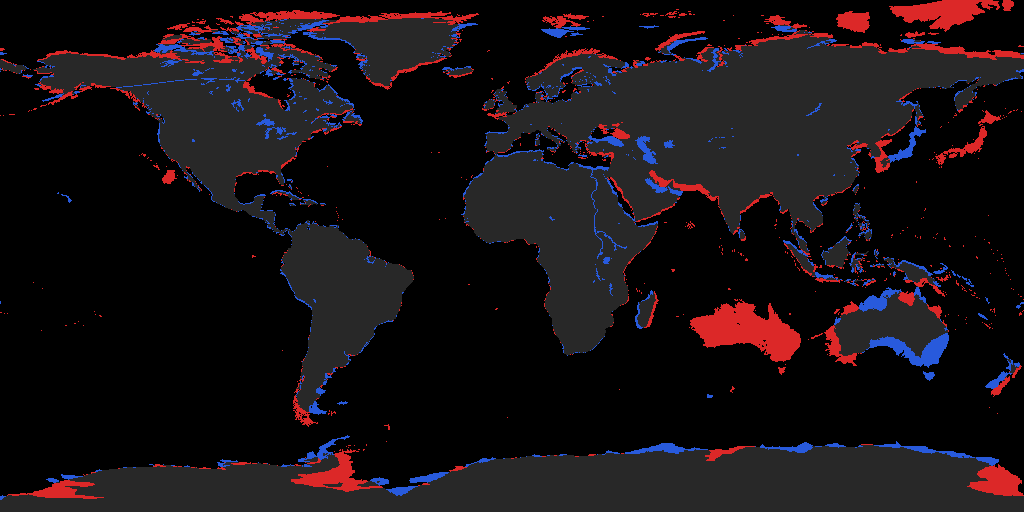
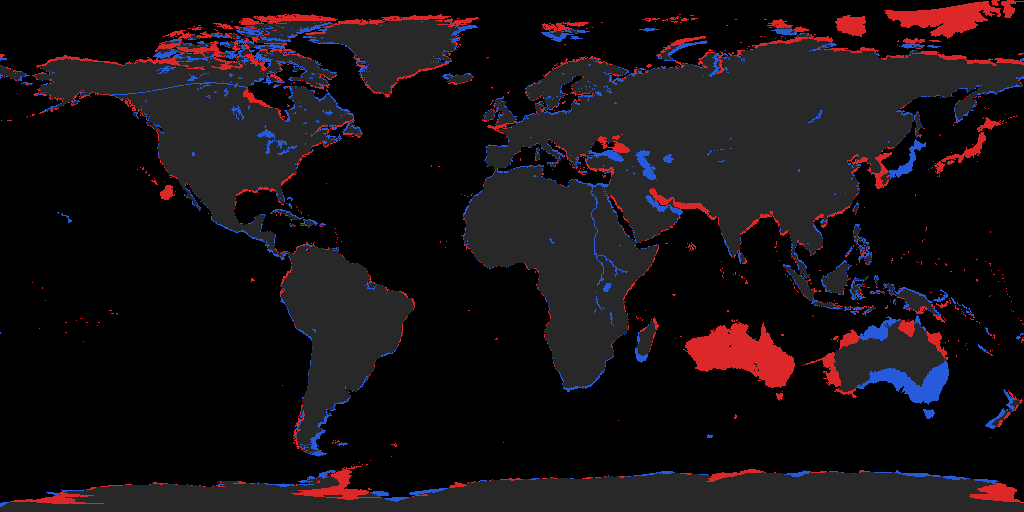
Model the map as piecewise bands (world + Antarctica)
The map is not a single equirectangular projection: it is a world map and
a separate Antarctica map merged vertically, then squashed to the engine's
pixel budget, so the vertical scale differs per band (the 'two aspect
ratios'). Detected automatically:
  world      rows 0..0.918  ->  +90..-60 deg
  antarctica rows 0.918..1  ->  -65..-90 deg

- mapframe.py: shared module building the GIS reference in this piecewise
  frame; bands.csv holds the (editable) band model.
- diagnose_aspect.py / warp_map.py now use the band-aware reference.

With the correct frame the baseline land/sea disagreement is 12.6% (not
16.8% as the wrong uniform-equirectangular assumption suggested), and the
warp's mean displacement drops 17->11px because it no longer fights a
bogus vertical scale -- it now targets only genuine distortion (e.g.
Australia).

Changed region(s): [[0.0, 0.0, 1.0, 1.0], [0.9688, 0.6875, 1.0, 0.8438]]

diff --git a/tools/mapfix/mapframe.py b/tools/mapfix/mapframe.py
@@ -1,0 +1,83 @@
+"""Shared map-frame model for the mapfix tools.
+
+IMPORTANT: this mod's map is NOT a single equirectangular projection. It is a
+world map and a separate Antarctica map merged vertically, then squashed to fit
+the engine's pixel budget. So the vertical scale (degrees-of-latitude per pixel)
+is different in each band -- that is the "two aspect ratios" in the map.
+
+We model it as a stack of equirectangular *bands*. Each band maps a normalized
+row range [y0..y1] (0=top, 1=bottom) to a latitude range [lat_top..lat_bot],
+with longitude always equirectangular across the full width.
+
+Detected for bakasekai (see bands.csv):
+  world      rows 0.000..0.918  ->  +90 .. -60 deg   (~15.4 px/deg vertical)
+  antarctica rows 0.918..1.000  ->  -65 .. -90 deg   (~8.4  px/deg vertical)
+"""
+import csv
+import os
+
+from PIL import Image, ImageDraw
+
+Image.MAX_IMAGE_PIXELS = None
+
+HERE = os.path.dirname(os.path.abspath(__file__))
+DEFAULT_BANDS = os.path.join(HERE, "bands.csv")
+
+# fallback if bands.csv is missing
+_FALLBACK = [("world", 0.0, 0.918, 90.0, -60.0),
+             ("antarctica", 0.918, 1.0, -65.0, -90.0)]
+
+
+def load_bands(path=DEFAULT_BANDS):
+    """Return [(name, y0n, y1n, lat_top, lat_bot), ...] (normalized rows)."""
+    if not path or not os.path.exists(path):
+        return list(_FALLBACK)
+    bands = []
+    with open(path, newline="") as f:
+        for row in csv.reader(f):
+            if not row or row[0].lstrip().startswith("#"):
+                continue
+            name, y0, y1, lt, lb = row[:5]
+            bands.append((name, float(y0), float(y1), float(lt), float(lb)))
+    return bands or list(_FALLBACK)
+
+
+def gis_land_mask(shp_path, w, h, bands=None):
+    """Rasterize Natural Earth land polygons into the piecewise-band frame.
+
+    Each band renders all polygons with its own lat->row scale, then is pasted
+    into its row range. Returns a uint8 0/255 array (h, w).
+    """
+    if bands is None:
+        bands = load_bands()
+    try:
+        import shapefile  # pyshp
+    except ImportError:
+        raise SystemExit("pyshp required: pip install pyshp")
+    shapes = shapefile.Reader(shp_path).shapes()
+
+    out = Image.new("L", (w, h), 0)
+    for _name, y0n, y1n, lat0, lat1 in bands:
+        ry0, ry1 = int(round(y0n * h)), int(round(y1n * h))
+        if ry1 <= ry0:
+            continue
+
+        def X(lon):
+            return (lon + 180.0) / 360.0 * w
+
+        def Y(lat, ry0=ry0, ry1=ry1, lat0=lat0, lat1=lat1):
+            return ry0 + (lat0 - lat) / (lat0 - lat1) * (ry1 - ry0)
+
+        layer = Image.new("L", (w, h), 0)
+        d = ImageDraw.Draw(layer)
+        for sh in shapes:
+            pts = sh.points
+            parts = list(sh.parts) + [len(pts)]
+            for i in range(len(parts) - 1):
+                ring = pts[parts[i]:parts[i + 1]]
+                poly = [(X(lon), Y(lat)) for lon, lat in ring]
+                if len(poly) >= 3:
+                    d.polygon(poly, fill=255)
+        band_crop = layer.crop((0, ry0, w, ry1))
+        out.paste(band_crop, (0, ry0))
+    return out

diff --git a/tools/mapfix/warp_map.py b/tools/mapfix/warp_map.py
@@ -39,10 +39,7 @@ from PIL import Image
 from scipy.ndimage import gaussian_filter, map_coordinates, zoom
 from scipy.signal import fftconvolve
 
-try:
-    import shapefile  # pyshp
-except ImportError:
-    raise SystemExit("pyshp required: pip install pyshp")
+from mapframe import gis_land_mask, load_bands
 
 HERE = os.path.dirname(os.path.abspath(__file__))
 REPO = os.path.abspath(os.path.join(HERE, "..", ".."))
@@ -62,24 +59,9 @@ LAYERS = {
 }
 
 
-def lonlat_to_px(lon, lat, w, h):
-    return (lon + 180.0) / 360.0 * w, (90.0 - lat) / 180.0 * h
-
-
-def gis_land_mask(w, h):
-    from PIL import ImageDraw
-    img = Image.new("L", (w, h), 0)
-    draw = ImageDraw.Draw(img)
-    sf = shapefile.Reader(os.path.join(GIS_DIR, "ne_110m_land.shp"))
-    for shape in sf.shapes():
-        pts = shape.points
-        parts = list(shape.parts) + [len(pts)]
-        for i in range(len(parts) - 1):
-            ring = pts[parts[i]:parts[i + 1]]
-            poly = [lonlat_to_px(lon, lat, w, h) for lon, lat in ring]
-            if len(poly) >= 3:
-                draw.polygon(poly, fill=255)
-    return np.asarray(img, dtype=np.float32) / 255.0
+def gis_mask(w, h, bands):
+    shp = os.path.join(GIS_DIR, "ne_110m_land.shp")
+    return np.asarray(gis_land_mask(shp, w, h, bands), dtype=np.float32) / 255.0
 
 
 def map_land_mask(w, h, sealevel):
@@ -260,8 +242,10 @@ def main():
     h = w // 2
     os.makedirs(OUT_DIR, exist_ok=True)
 
+    bands = load_bands()
     print(f"[1/4] masks @ {w}x{h}")
-    ref = gis_land_mask(w, h)            # target (real geography)
+    print("      bands:", ", ".join(f"{b[0]}[{b[3]:g}..{b[4]:g}]" for b in bands))
+    ref = gis_mask(w, h, bands)               # target (real geography, band frame)
     src = map_land_mask(w, h, args.sealevel)  # current map
 
     before = colorize_diff(src, ref)

diff --git a/tools/mapfix/diagnose_aspect.py b/tools/mapfix/diagnose_aspect.py
@@ -23,40 +23,13 @@ import os
 
 from PIL import Image, ImageFilter
 
-try:
-    import shapefile  # pyshp
-except ImportError:
-    raise SystemExit("pyshp required: pip install pyshp")
+from mapframe import gis_land_mask, load_bands
 
 HERE = os.path.dirname(os.path.abspath(__file__))
 REPO = os.path.abspath(os.path.join(HERE, "..", ".."))
 MAP_DIR = os.path.join(REPO, "bakasekai", "map")
 GIS_DIR = os.environ.get("GIS_DIR", "/tmp/gis")
 OUT_DIR = os.path.join(HERE, "out")
-
-
-def lonlat_to_px(lon, lat, w, h):
-    x = (lon + 180.0) / 360.0 * w
-    y = (90.0 - lat) / 180.0 * h
-    return x, y
-
-
-def render_gis_land(shp_path, w, h):
-    """Rasterize Natural Earth land polygons into an equirectangular mask."""
-    from PIL import ImageDraw
-
-    img = Image.new("L", (w, h), 0)
-    draw = ImageDraw.Draw(img)
-    sf = shapefile.Reader(shp_path)
-    for shape in sf.shapes():
-        pts = shape.points
-        parts = list(shape.parts) + [len(pts)]
-        for i in range(len(parts) - 1):
-            ring = pts[parts[i]:parts[i + 1]]
-            poly = [lonlat_to_px(lon, lat, w, h) for lon, lat in ring]
-            if len(poly) >= 3:
-                draw.polygon(poly, fill=255)
-    return img
 
 
 def main():
@@ -71,9 +44,11 @@ def main():
     h = w // 2
     os.makedirs(OUT_DIR, exist_ok=True)
 
-    # 1) Real geography mask
+    # 1) Real geography mask in the map's piecewise-band frame
     shp = os.path.join(GIS_DIR, "ne_110m_land.shp")
-    gis = render_gis_land(shp, w, h)
+    bands = load_bands()
+    print("bands:", ", ".join(f"{b[0]}[{b[3]:g}..{b[4]:g}]" for b in bands))
+    gis = gis_land_mask(shp, w, h, bands)
     gis.save(os.path.join(OUT_DIR, "gis_land_mask.png"))
 
     # 2) Current map land mask from heightmap
